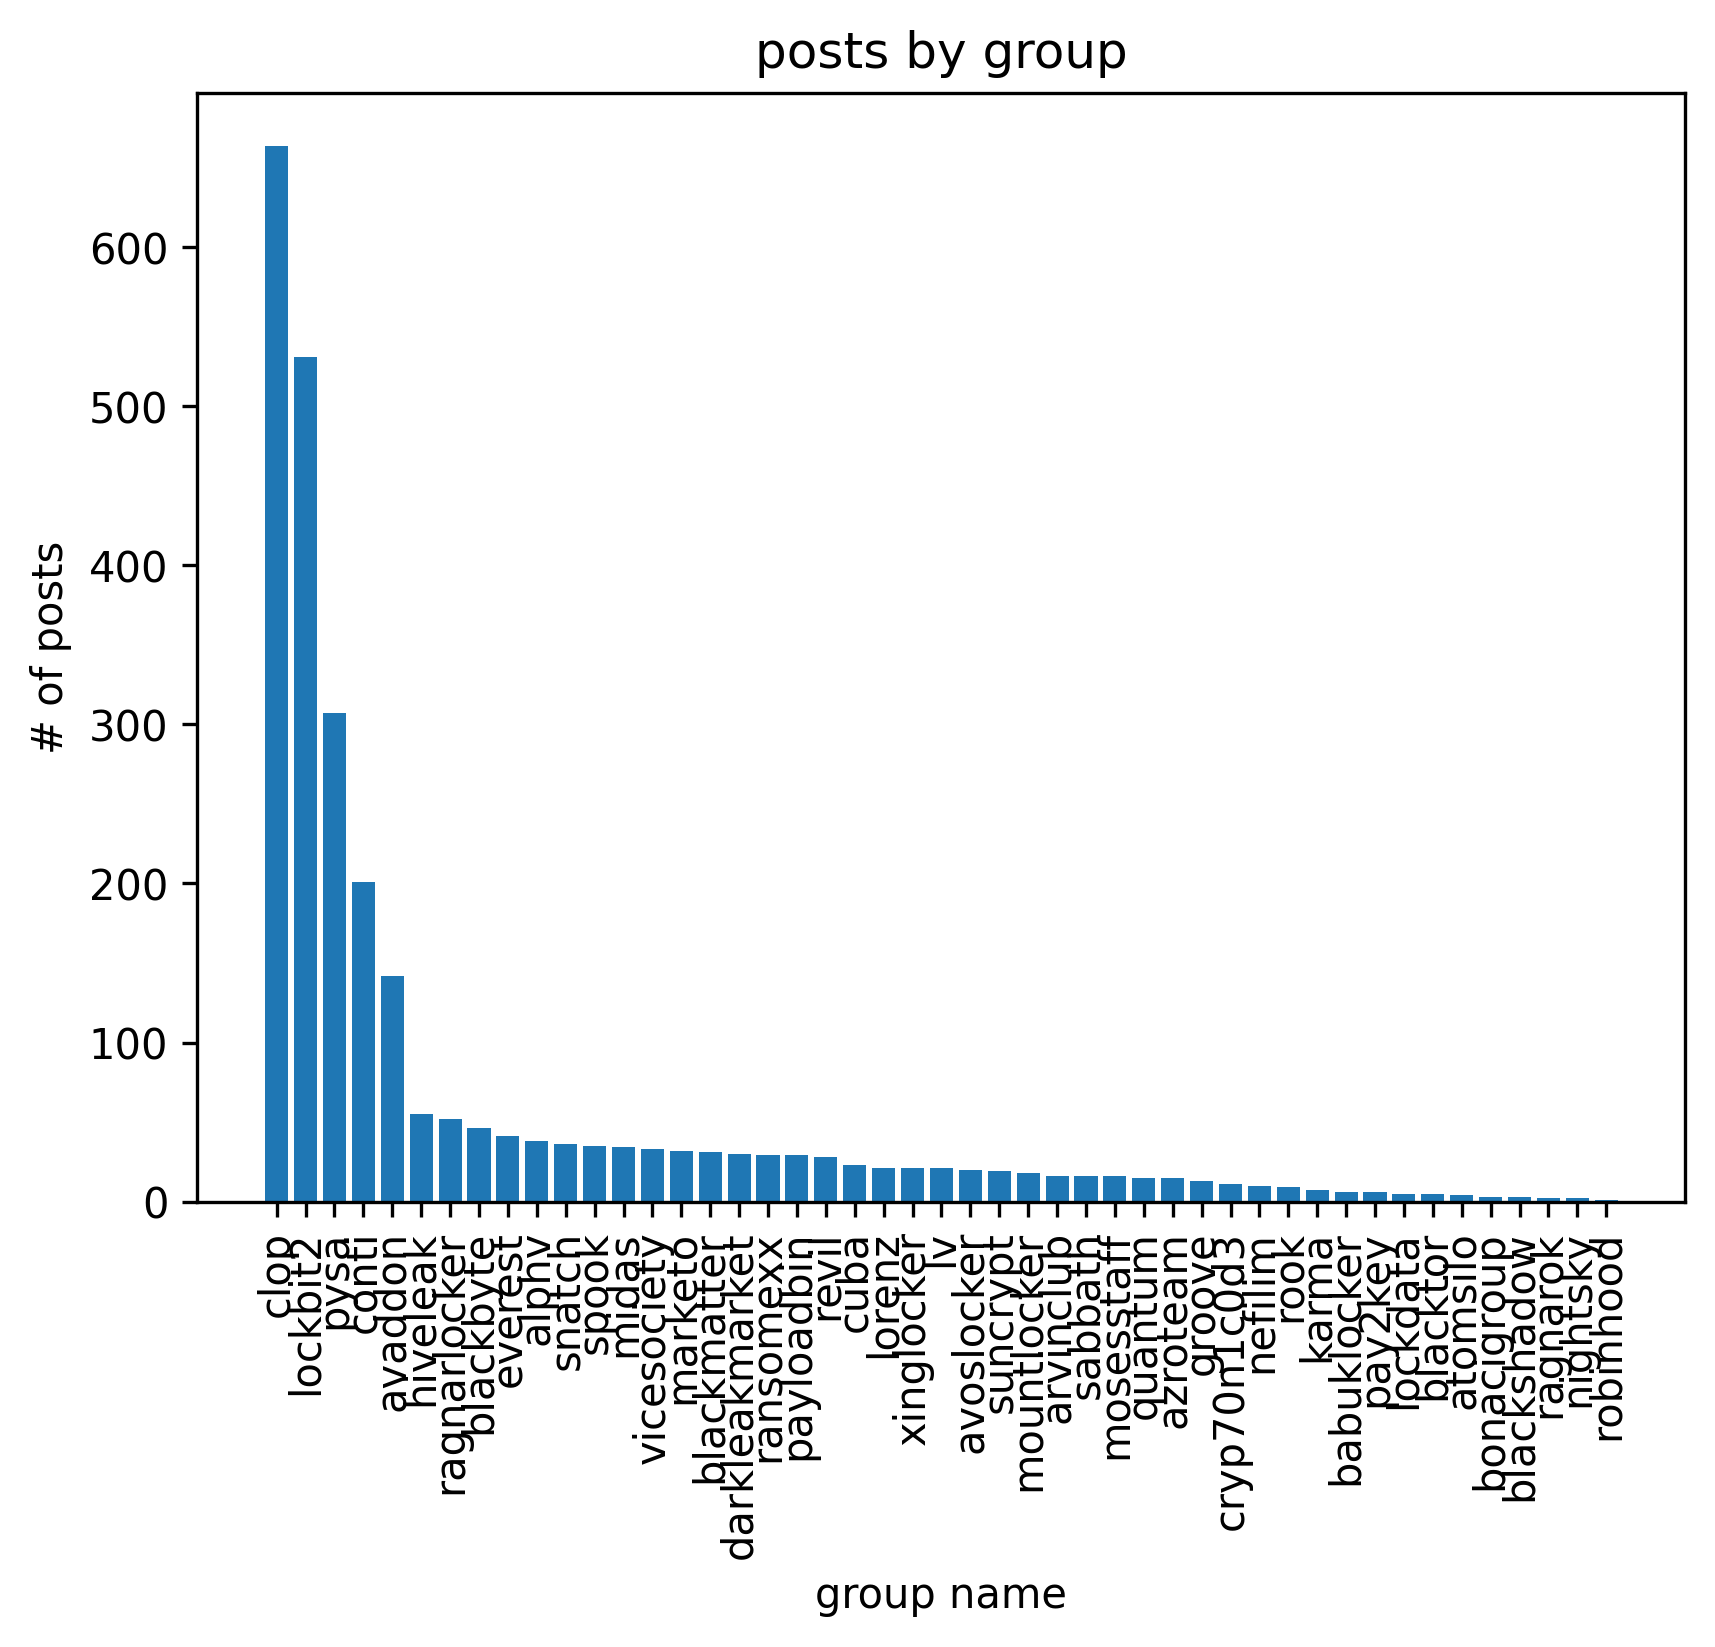
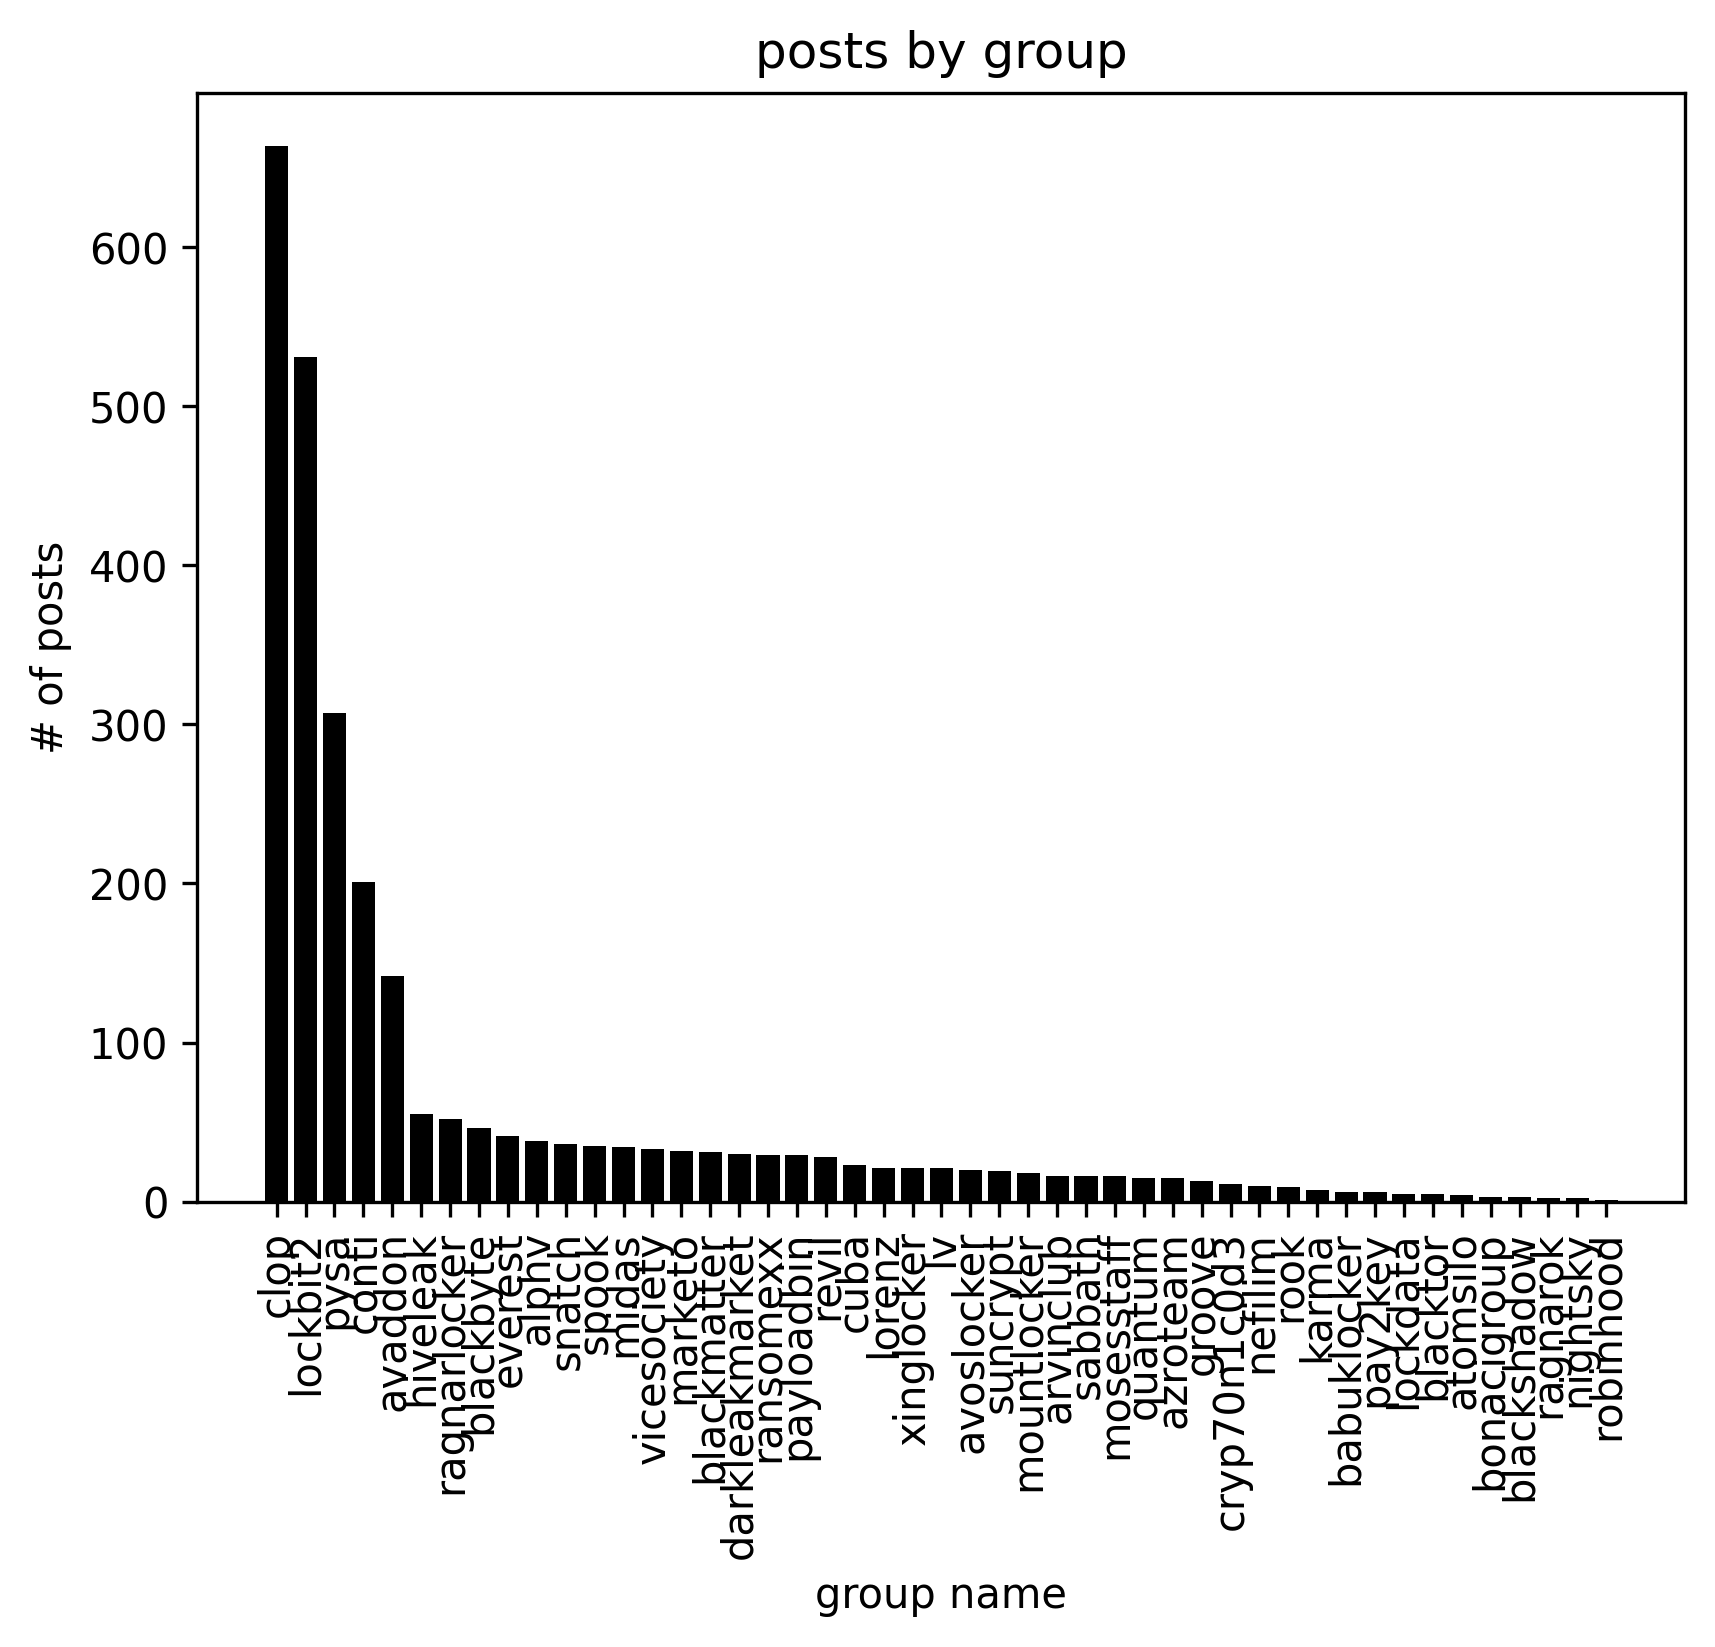
graph past week
+ use transparency

Changed region(s): [[0.1545, 0.0929, 0.8344, 0.7432]]

diff --git a/plotting.py b/plotting.py
@@ -15,12 +15,32 @@ def plot_posts_by_group():
     group_counts = sorted(group_counts.items(), key=lambda x: x[1], reverse=True)
     groups = [x[0] for x in group_counts]
     counts = [x[1] for x in group_counts]
-    plt.bar(groups, counts)
+    plt.bar(groups, counts, color="#000000")
     plt.title('posts by group')
     plt.xlabel('group name')
     plt.xticks(rotation=90)
     plt.ylabel('# of posts')
-    plt.savefig('docs/graphs/postsbygroup.png',dpi=300, bbox_inches="tight")
+    plt.savefig('docs/graphs/postsbygroup.png',dpi=300, bbox_inches="tight", pad_inches=0.1, frameon=False, transparent=True)
+    plt.clf()
+    plt.cla()
+
+def plot_posts_by_group_past_7_days():
+    '''
+    plot the number of posts by group over the last week in a barchart
+    '''
+    posts = openjson('posts.json') 
+    seven_days_ago = datetime.datetime.now() - datetime.timedelta(days=7)
+    posts = [post for post in posts if post['discovered'] >= seven_days_ago.strftime('%Y-%m-%d')]
+    group_counts = gcount(posts)
+    group_counts = sorted(group_counts.items(), key=lambda x: x[1], reverse=True)
+    groups = [x[0] for x in group_counts]
+    counts = [x[1] for x in group_counts]
+    plt.bar(groups, counts, color="#000000")
+    plt.title('posts by group last 7 days')
+    plt.xlabel('group name')
+    plt.xticks(rotation=90)
+    plt.ylabel('# of posts')
+    plt.savefig('docs/graphs/postsbygroup7days.png',dpi=300, bbox_inches="tight", pad_inches=0.1, frameon=False, transparent=True)
     plt.clf()
     plt.cla()
 
@@ -48,12 +68,12 @@ def trend_posts_per_day():
     datecount.sort(key=lambda x: x[0])
     dates = [datetime.datetime.strptime(x[0], '%Y-%m-%d').date() for x in datecount]
     counts = [x[1] for x in datecount]
-    plt.plot(dates, counts)
+    plt.plot(dates, counts, color="#000000")
     plt.title('posts per day')
     plt.xlabel('date')
     plt.xticks(rotation=90)
     plt.ylabel('# of posts')
-    plt.savefig('docs/graphs/postsbyday.png',dpi=300, bbox_inches="tight")
+    plt.savefig('docs/graphs/postsbyday.png',dpi=300, bbox_inches="tight", pad_inches=0.1, frameon=False, transparent=True)
     plt.clf()
     plt.cla()
 
@@ -78,6 +98,6 @@ def pie_posts_by_group():
     plt.legend(loc='lower center', bbox_to_anchor=(0.5, -0.2), ncol=3)
     plt.text(0.5, 0.5, 'total : ' + str(sum(counts)), horizontalalignment='center', verticalalignment='center', transform=plt.gcf().transFigure)
     plt.title('posts by group')
-    plt.savefig('docs/graphs/grouppie.png',dpi=300, bbox_inches="tight")
+    plt.savefig('docs/graphs/grouppie.png',dpi=300, bbox_inches="tight", pad_inches=0.1, frameon=False, transparent=True)
     plt.clf()
     plt.cla()

diff --git a/markdown.py b/markdown.py
@@ -21,7 +21,7 @@ from sharedutils import mounthlypostcount
 #from sharedutils import headlesscount
 #from sharedutils import countcaptchahosts
 from sharedutils import stdlog, dbglog, errlog, honk
-from plotting import trend_posts_per_day, plot_posts_by_group, pie_posts_by_group
+from plotting import trend_posts_per_day, plot_posts_by_group, pie_posts_by_group, plot_posts_by_group_past_7_days
 
 def suffix(d):
     return 'th' if 11<=d<=13 else {1:'st',2:'nd',3:'rd'}.get(d%10, 'th')
@@ -139,6 +139,8 @@ def statspage():
     writeline(statspage, '# 📊 stats')
     writeline(statspage, '')
     writeline(statspage, '_timestamp association commenced october 21"_')
+    writeline(statspage, '')
+    writeline(statspage, '![](graphs/postsbygroup7days.png)')
     writeline(statspage, '')
     writeline(statspage, '![](graphs/postsbyday.png)')
     writeline(statspage, '')
@@ -271,5 +273,6 @@ def main():
         trend_posts_per_day()
         plot_posts_by_group()
         pie_posts_by_group()
+        plot_posts_by_group_past_7_days()
     else:
         stdlog('posts.json has not been modified within the last 45 mins, assuming no new posts discovered')

diff --git a/docs/stats.md b/docs/stats.md
@@ -2,6 +2,8 @@
 
 _timestamp association commenced october 21"_
 
+![](graphs/postsbygroup7days.png)
+
 ![](graphs/postsbyday.png)
 
 ![](graphs/postsbygroup.png)
